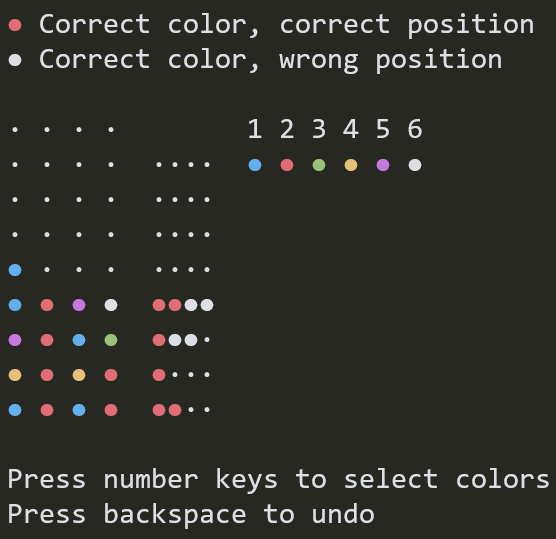
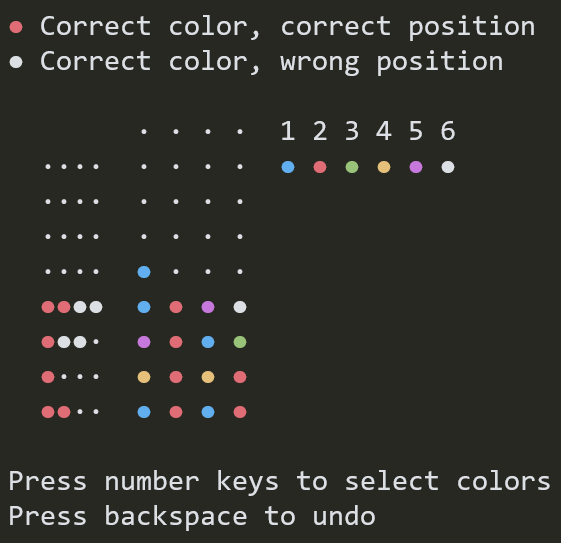
Modify layout

diff --git a/src/main.rs b/src/main.rs
@@ -282,7 +282,11 @@ impl<'a> Game<'a> {
 
         let chunks = Layout::default()
             .direction(Direction::Horizontal)
-            .constraints([Constraint::Length(board_width as u16), Constraint::Min(1)])
+            .constraints([
+                Constraint::Length(2),
+                Constraint::Length(board_width as u16),
+                Constraint::Min(1),
+            ])
             .split(area);
 
         let empty_guess = Default::default();
@@ -301,7 +305,7 @@ impl<'a> Game<'a> {
             .take(self.opt.guesses.get());
 
         let constraints = vec![Constraint::Length(1); self.opt.guesses.get() + 1]; // +1 for solution
-        let rows = Layout::default().constraints(constraints).split(chunks[0]);
+        let rows = Layout::default().constraints(constraints).split(chunks[1]);
 
         let solution_row = rows[0];
         let solution = if self.status() == State::Playing {
@@ -316,27 +320,17 @@ impl<'a> Game<'a> {
             self.draw_row(f, guess, Some(hint), *row);
         }
 
-        self.draw_legend(f, chunks[1]);
+        self.draw_legend(f, chunks[2]);
     }
 
     fn draw_row(&self, f: &mut Frame<Backend>, guess: &Guess, hint: Option<&Hint>, area: Rect) {
         let chunks = Layout::default()
             .direction(Direction::Horizontal)
             .constraints([
-                Constraint::Length(2 * self.opt.holes.get() as u16 + 1),
+                Constraint::Length(self.opt.holes.get() as u16 + 2),
                 Constraint::Min(1),
             ])
             .split(area);
-
-        let text: Vec<_> = guess
-            .0
-            .iter()
-            .map(|c| Text::styled(CIRCLE, Style::default().fg(CODE_COLORS[*c])))
-            .chain(iter::repeat(Text::raw(DOT)))
-            .take(self.opt.holes.get())
-            .intersperse(Text::raw(" "))
-            .collect();
-        f.render_widget(Paragraph::new(text.iter()), chunks[0]);
 
         if let Some(hint) = hint {
             let bulls = iter::repeat(Text::styled(CIRCLE, Style::default().fg(BULL_COLOR)))
@@ -350,8 +344,18 @@ impl<'a> Game<'a> {
                 .chain(dots)
                 .take(self.opt.holes.get())
                 .collect();
-            f.render_widget(Paragraph::new(text.iter()), chunks[1]);
+            f.render_widget(Paragraph::new(text.iter()), chunks[0]);
         }
+
+        let text: Vec<_> = guess
+            .0
+            .iter()
+            .map(|c| Text::styled(CIRCLE, Style::default().fg(CODE_COLORS[*c])))
+            .chain(iter::repeat(Text::raw(DOT)))
+            .take(self.opt.holes.get())
+            .intersperse(Text::raw(" "))
+            .collect();
+        f.render_widget(Paragraph::new(text.iter()), chunks[1]);
     }
 
     fn draw_legend(&self, f: &mut Frame<Backend>, area: Rect) {
